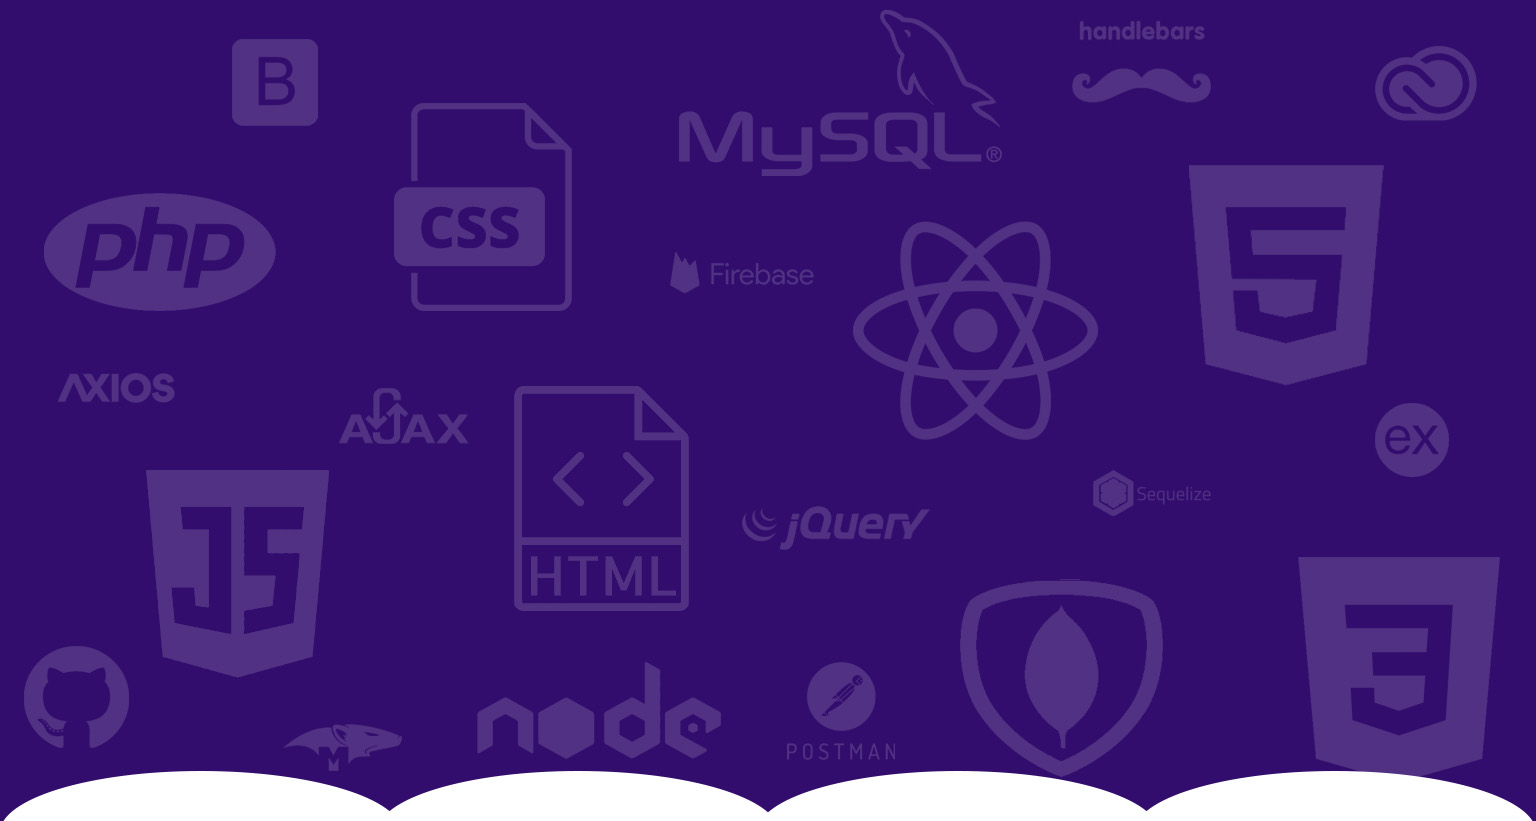
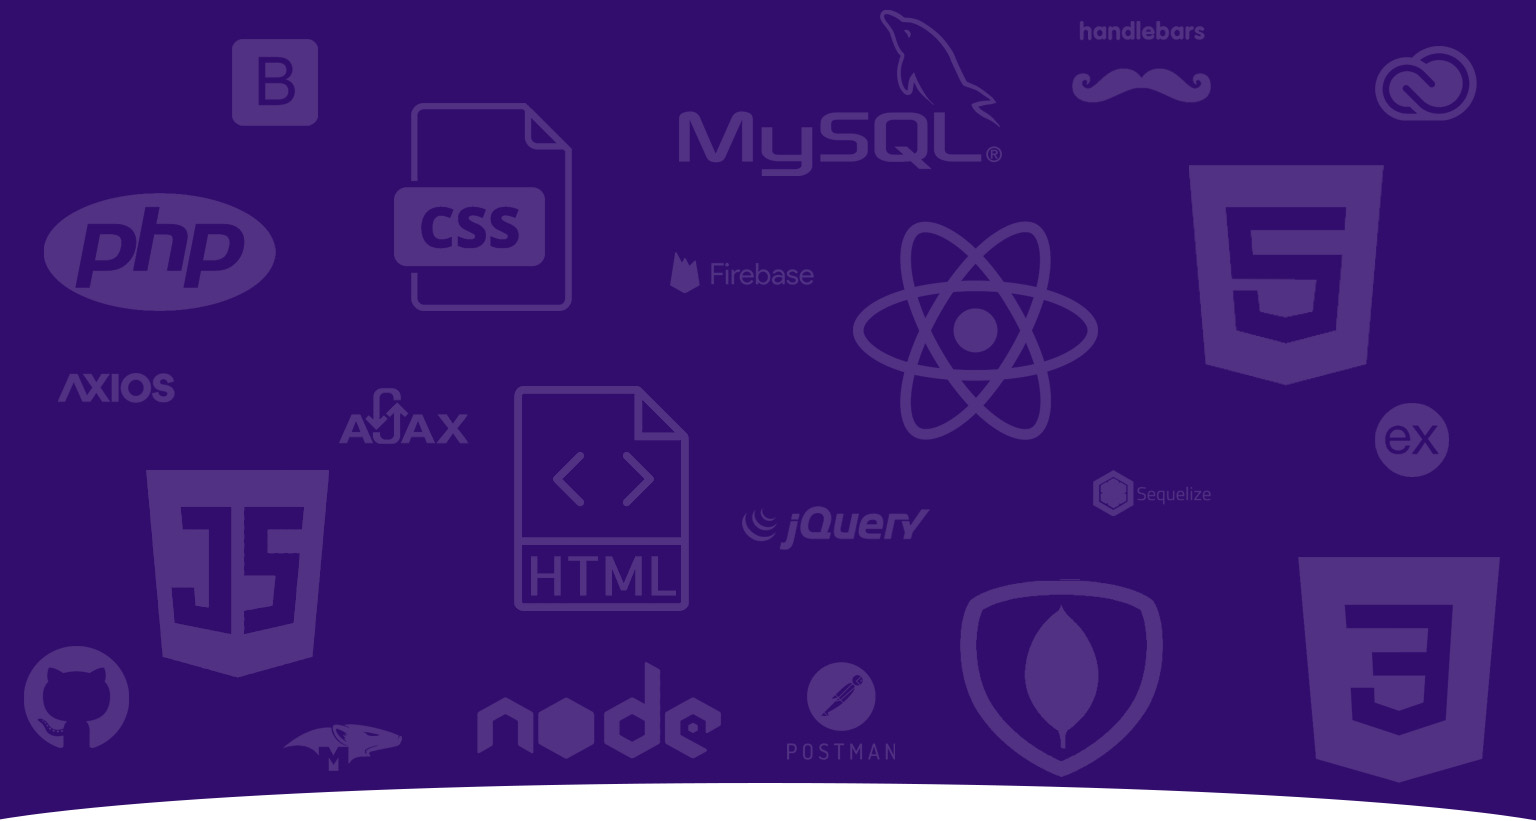
added padding to title component, allowing full background image to show

Changed region(s): [[0.0, 0.9135, 1.0, 1.0]]

diff --git a/src/Components/Skills/skills.css b/src/Components/Skills/skills.css
@@ -8,8 +8,13 @@
 }
 
 .SkillsImg, .SkillsImg2, .SkillsImg3 { 
-    width: 400px; 
-
+   
+    margin: 0 auto; 
+    float: left; 
+    text-align: center;
+    padding-top: 50px; 
+    margin-top: 50px; 
+      
     
     }
 
@@ -27,5 +32,7 @@ h1, h3 {
     margin-top: 0;
     margin-bottom: 0;
     float: left;  
+    
+   
 
 }

diff --git a/src/Components/Title/Title.css b/src/Components/Title/Title.css
@@ -10,7 +10,7 @@
     background-size: cover;
     background-image: url('./Images/codingbackground.jpg');
     overflow: hidden;  
-    margin-bottom: 50px; 
+    padding-bottom:100px;  
 }
 
 .titleText{
